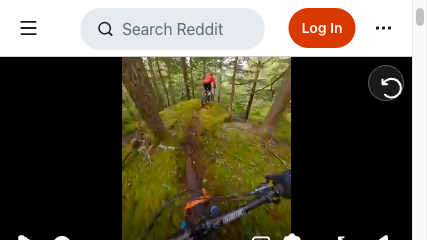
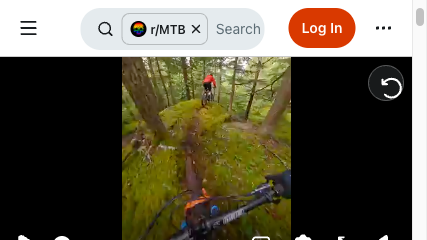
fix: preserve frost beneath short sticky headers

Changed region(s): [[0.274, 0.0583, 0.6089, 0.2042], [0.6393, 0.9625, 0.7307, 1.0], [0.3044, 0.0292, 0.4567, 0.0583]]

diff --git a/tests/e2e/sticky-header.regression-3.spec.ts b/tests/e2e/sticky-header.regression-3.spec.ts
@@ -57,10 +57,31 @@ test("clips frost below a sticky site header without losing reveal isolation", a
     await page.getByRole("button", { name: "Frost again" }).click();
     await expect(frost).toHaveCount(1);
     await page.locator("#header-button").click({ timeout: 2_000 });
+
+    await media.evaluate((element) => {
+      window.scrollTo({
+        top: (element as HTMLImageElement).offsetTop + (element as HTMLImageElement).offsetHeight - 100,
+        behavior: "instant",
+      });
+    });
+    await expect.poll(async () => (await media.boundingBox())?.y).toBe(-380);
+    await expect.poll(async () => {
+      const box = await page.getByRole("button", {
+        name: "Reveal protected media: A linked landscape beneath a sticky site header",
+      }).boundingBox();
+      return box && { y: box.y, height: box.height };
+    }).toEqual({ y: 56, height: 44 });
+    const outgoingRevealBox = await page.getByRole("button", {
+      name: "Reveal protected media: A linked landscape beneath a sticky site header",
+    }).boundingBox();
+    expect(outgoingRevealBox?.height).toBe(44);
+    await page.locator("#header-link").click({ timeout: 2_000 });
+    await page.locator("#header-button").click({ timeout: 2_000 });
+
     expect(await page.evaluate(() => ({
       button: (window as typeof window & { headerButtonClicks: number }).headerButtonClicks,
       link: (window as typeof window & { headerLinkClicks: number }).headerLinkClicks,
-    }))).toEqual({ button: 3, link: 1 });
+    }))).toEqual({ button: 4, link: 2 });
 
     await page.evaluate(() => window.scrollTo({ top: 0, behavior: "instant" }));
     await expect.poll(async () => (await media.boundingBox())?.y).toBeGreaterThan(56);
@@ -70,6 +91,26 @@ test("clips frost below a sticky site header without losing reveal isolation", a
       frost.boundingBox(),
     ]);
     expect(restoredFrostBox).toEqual(restoredMediaBox);
+
+    await media.evaluate((element) => {
+      element.style.height = "96px";
+      window.scrollTo({ top: (element as HTMLImageElement).offsetTop, behavior: "instant" });
+    });
+    await expect.poll(async () => (await media.boundingBox())?.height).toBe(96);
+    await expect.poll(async () => {
+      const box = await page.getByRole("button", {
+        name: "Reveal protected media: A linked landscape beneath a sticky site header",
+      }).boundingBox();
+      return box && { y: box.y, height: box.height };
+    }).toEqual({ y: 56, height: 40 });
+    const shortRevealBox = await page.getByRole("button", {
+      name: "Reveal protected media: A linked landscape beneath a sticky site header",
+    }).boundingBox();
+    expect(shortRevealBox?.height).toBe(40);
+    await page.locator("#header-button").click({ timeout: 2_000 });
+    expect(await page.evaluate(() => (window as typeof window & {
+      headerButtonClicks: number;
+    }).headerButtonClicks)).toBe(5);
   } finally {
     await context.close();
   }

diff --git a/tests/e2e/live-video-sites.spec.ts b/tests/e2e/live-video-sites.spec.ts
@@ -29,6 +29,17 @@ type ProtectedVideo = {
   kind: "native" | "provider";
 };
 
+test("top-clipped alignment requires a bounded clip and meaningful reveal surface", () => {
+  const target = { x: 0, y: 0, width: 427, height: 480 };
+  expect(isAlignedTopClippedLayer(target, { x: 0, y: 56, width: 427, height: 424 })).toBe(true);
+  expect(isAlignedTopClippedLayer(target, { x: 0, y: 479, width: 427, height: 1 })).toBe(false);
+  expect(isAlignedTopClippedLayer(target, { x: 0, y: 121, width: 427, height: 359 })).toBe(false);
+
+  const outgoingTarget = { x: 0, y: -380, width: 427, height: 480 };
+  expect(isAlignedTopClippedLayer(outgoingTarget, { x: 0, y: 56, width: 427, height: 44 })).toBe(true);
+  expect(isAlignedTopClippedLayer(outgoingTarget, { x: 0, y: 99, width: 427, height: 1 })).toBe(false);
+});
+
 test.describe("live-site video frosting", () => {
   test.skip(!runLiveQa, "Set GOGGLES_LIVE_VIDEO_QA=1 to run public-site acceptance tests.");
   test.describe.configure({ timeout: 90_000 });
@@ -421,8 +432,13 @@ function isAlignedTopClippedLayer(
   layer: { x: number; y: number; width: number; height: number },
 ): boolean {
   const tolerance = 2;
+  const visibleTargetTop = Math.max(0, target.y);
+  const visibleTargetHeight = Math.max(0, target.y + target.height - visibleTargetTop);
+  const topClip = Math.max(0, layer.y - visibleTargetTop);
+  const minimumSurfaceHeight = Math.min(24, visibleTargetHeight / 4);
   return (
-    layer.height > 0 &&
+    layer.height >= minimumSurfaceHeight &&
+    topClip <= 120 &&
     layer.y >= target.y - tolerance &&
     Math.abs(layer.x - target.x) <= tolerance &&
     Math.abs(layer.width - target.width) <= tolerance &&

diff --git a/src/protection/renderer.ts b/src/protection/renderer.ts
@@ -498,7 +498,8 @@ function topEdgeOcclusionInset(
           occluder.right >= visibleRight - 1 &&
           occluder.top <= visibleTop + 1 &&
           occluder.bottom > visibleTop + 1 &&
-          occluder.height <= Math.min(120, (visibleBottom - visibleTop) / 2)
+          occluder.height <= 120 &&
+          occluder.height < window.innerHeight - 1
         ) {
           return Math.min(box.height, Math.max(0, occluder.bottom - box.top));
         }
